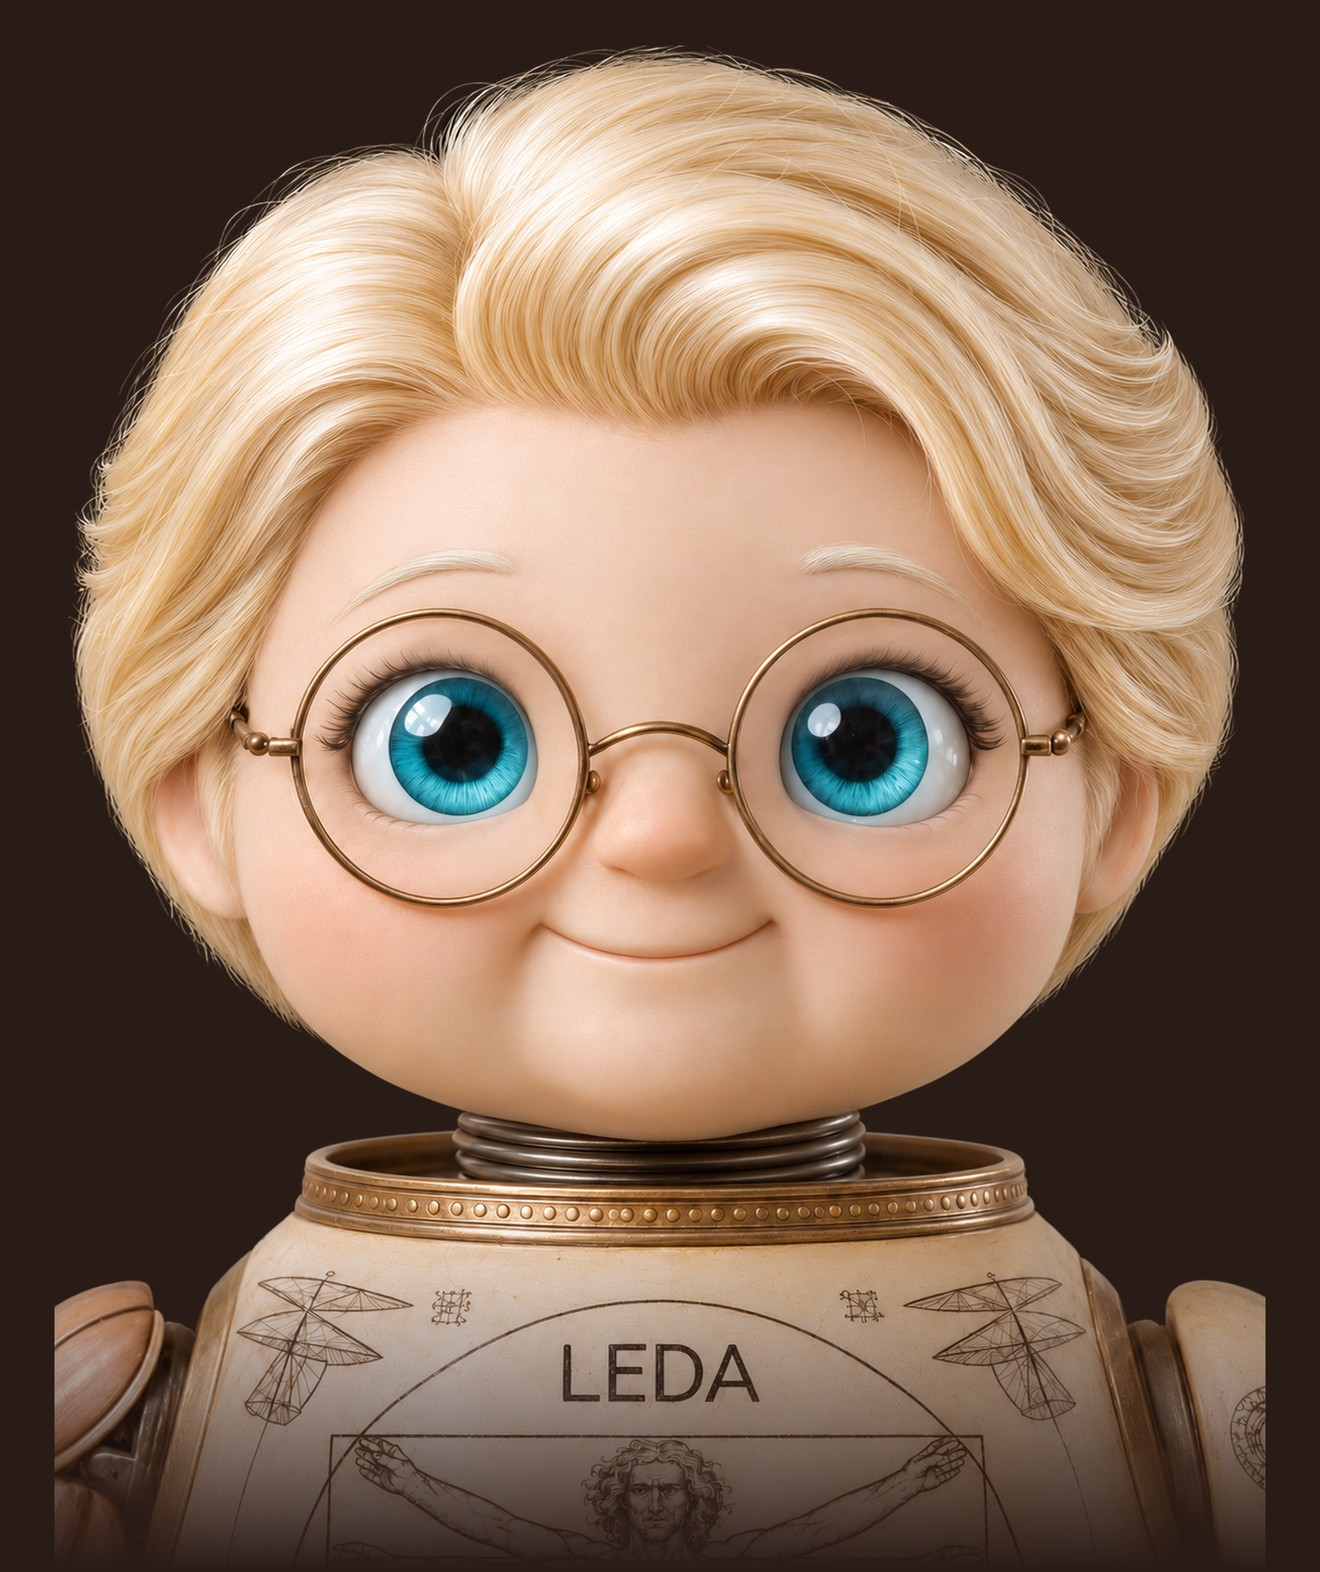
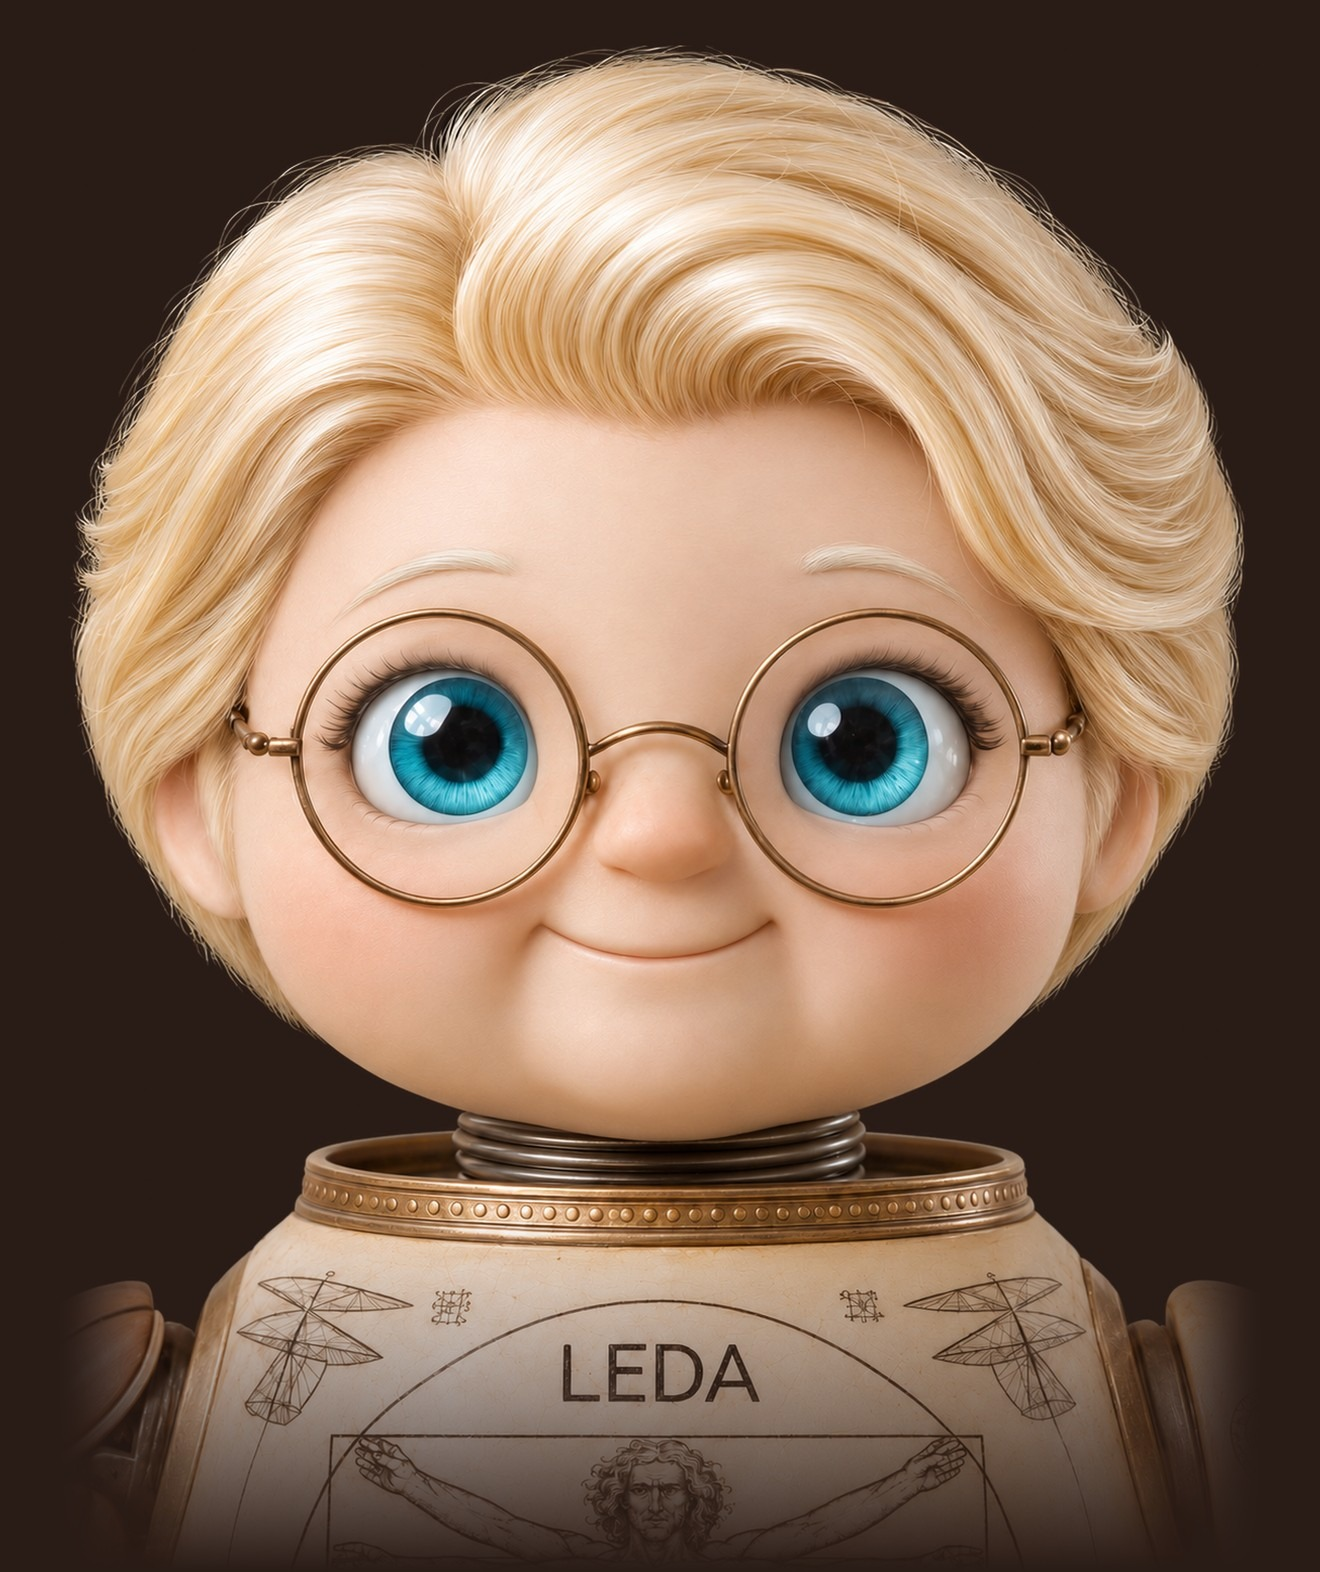
Leda: sem sombra que criava faixa escura, ombros com degradê marrom nas laterais, legenda do mic sem sobrepor
Claude-Session: https://claude.ai/code/session_0171AD1rzMNf6d3akX938nb1

Changed region(s): [[0.8697, 0.8104, 0.9629, 0.9975], [0.0311, 0.8104, 0.1242, 0.9663]]

diff --git a/leda-lite/index.html b/leda-lite/index.html
@@ -11,12 +11,12 @@
   <link rel="icon" type="image/png" sizes="192x192" href="icon-192.png">
   <link rel="apple-touch-icon" href="icon-192.png">
   <link rel="manifest" href="manifest.webmanifest">
-  <link rel="stylesheet" href="style.css?v=l-4">
+  <link rel="stylesheet" href="style.css?v=l-5">
   <script type="module" src="app.js?v=l-1"></script>
 </head>
 <body>
   <section id="gate" class="gate-screen" aria-label="Acordar a Leda">
-    <img class="gate-avatar" src="leda-tela.jpg?v=1" alt="Leda, a robozinha assistente da VINCI, sorrindo">
+    <img class="gate-avatar" src="leda-tela.jpg?v=2" alt="Leda, a robozinha assistente da VINCI, sorrindo">
     <div class="gate-form">
       <div class="gate-title"><b>LEDA LITE</b><small>ASSISTENTE DA CASA · VINCI</small></div>
       <form id="pw-form" class="pw-form" autocomplete="on">

diff --git a/leda-conversa/index.html b/leda-conversa/index.html
@@ -11,12 +11,12 @@
   <link rel="icon" type="image/png" sizes="192x192" href="icon-192.png">
   <link rel="apple-touch-icon" href="icon-192.png">
   <link rel="manifest" href="manifest.webmanifest">
-  <link rel="stylesheet" href="style.css?v=l-4">
+  <link rel="stylesheet" href="style.css?v=l-5">
   <script type="module" src="app.js?v=l-1"></script>
 </head>
 <body>
   <section id="gate" class="gate-screen" aria-label="Acordar a Leda">
-    <img class="gate-avatar" src="leda-tela.jpg?v=1" alt="Leda, a robozinha assistente da VINCI, sorrindo">
+    <img class="gate-avatar" src="leda-tela.jpg?v=2" alt="Leda, a robozinha assistente da VINCI, sorrindo">
     <div class="gate-form">
       <div class="gate-title"><b>LEDA</b><small>ASSISTENTE DA CASA · VINCI</small></div>
       <form id="pw-form" class="pw-form" autocomplete="on">

diff --git a/leda-conversa/sw.js b/leda-conversa/sw.js
@@ -1,6 +1,6 @@
 // Leda: guarda a página e a biblioteca para abrir sem internet.
 // O modelo em si fica no cache próprio do WebLLM (baixado uma vez, do Hugging Face).
-const CACHE = "leda-conversa-v5";
+const CACHE = "leda-conversa-v6";
 const SHELL = [
   "./", "index.html", "style.css?v=l-4", "app.js?v=l-1", "worker.js",
   "vendor/web-llm-0.2.86.js", "leda-avatar.jpg", "leda-tela.jpg", "leda-corpo.jpg", "icon-192.png", "icon-512.png", "manifest.webmanifest",

diff --git a/leda-lite/sw.js b/leda-lite/sw.js
@@ -1,6 +1,6 @@
 // Leda: guarda a página e a biblioteca para abrir sem internet.
 // O modelo em si fica no cache próprio do WebLLM (baixado uma vez, do Hugging Face).
-const CACHE = "leda-lite-v5";
+const CACHE = "leda-lite-v6";
 const SHELL = [
   "./", "index.html", "style.css?v=l-4", "app.js?v=l-1", "worker.js",
   "vendor/web-llm-0.2.86.js", "leda-avatar.jpg", "leda-tela.jpg", "leda-corpo.jpg", "icon-192.png", "icon-512.png", "manifest.webmanifest",

diff --git a/leda-conversa/style.css b/leda-conversa/style.css
@@ -76,3 +76,7 @@ textarea::placeholder{color:#d7a06a;opacity:.9}
 
 #mic{margin-left:6px}
 #mic::after{left:0;transform:none;font-size:8.5px}
+
+.gate-avatar{filter:none!important}
+#mic{margin-left:0;margin-bottom:26px}
+#mic::after{left:50%;transform:translateX(-50%);width:52px;white-space:normal;text-align:center;line-height:1.05;font-size:9px}

diff --git a/leda-lite/style.css b/leda-lite/style.css
@@ -76,3 +76,7 @@ textarea::placeholder{color:#d7a06a;opacity:.9}
 
 #mic{margin-left:6px}
 #mic::after{left:0;transform:none;font-size:8.5px}
+
+.gate-avatar{filter:none!important}
+#mic{margin-left:0;margin-bottom:26px}
+#mic::after{left:50%;transform:translateX(-50%);width:52px;white-space:normal;text-align:center;line-height:1.05;font-size:9px}
